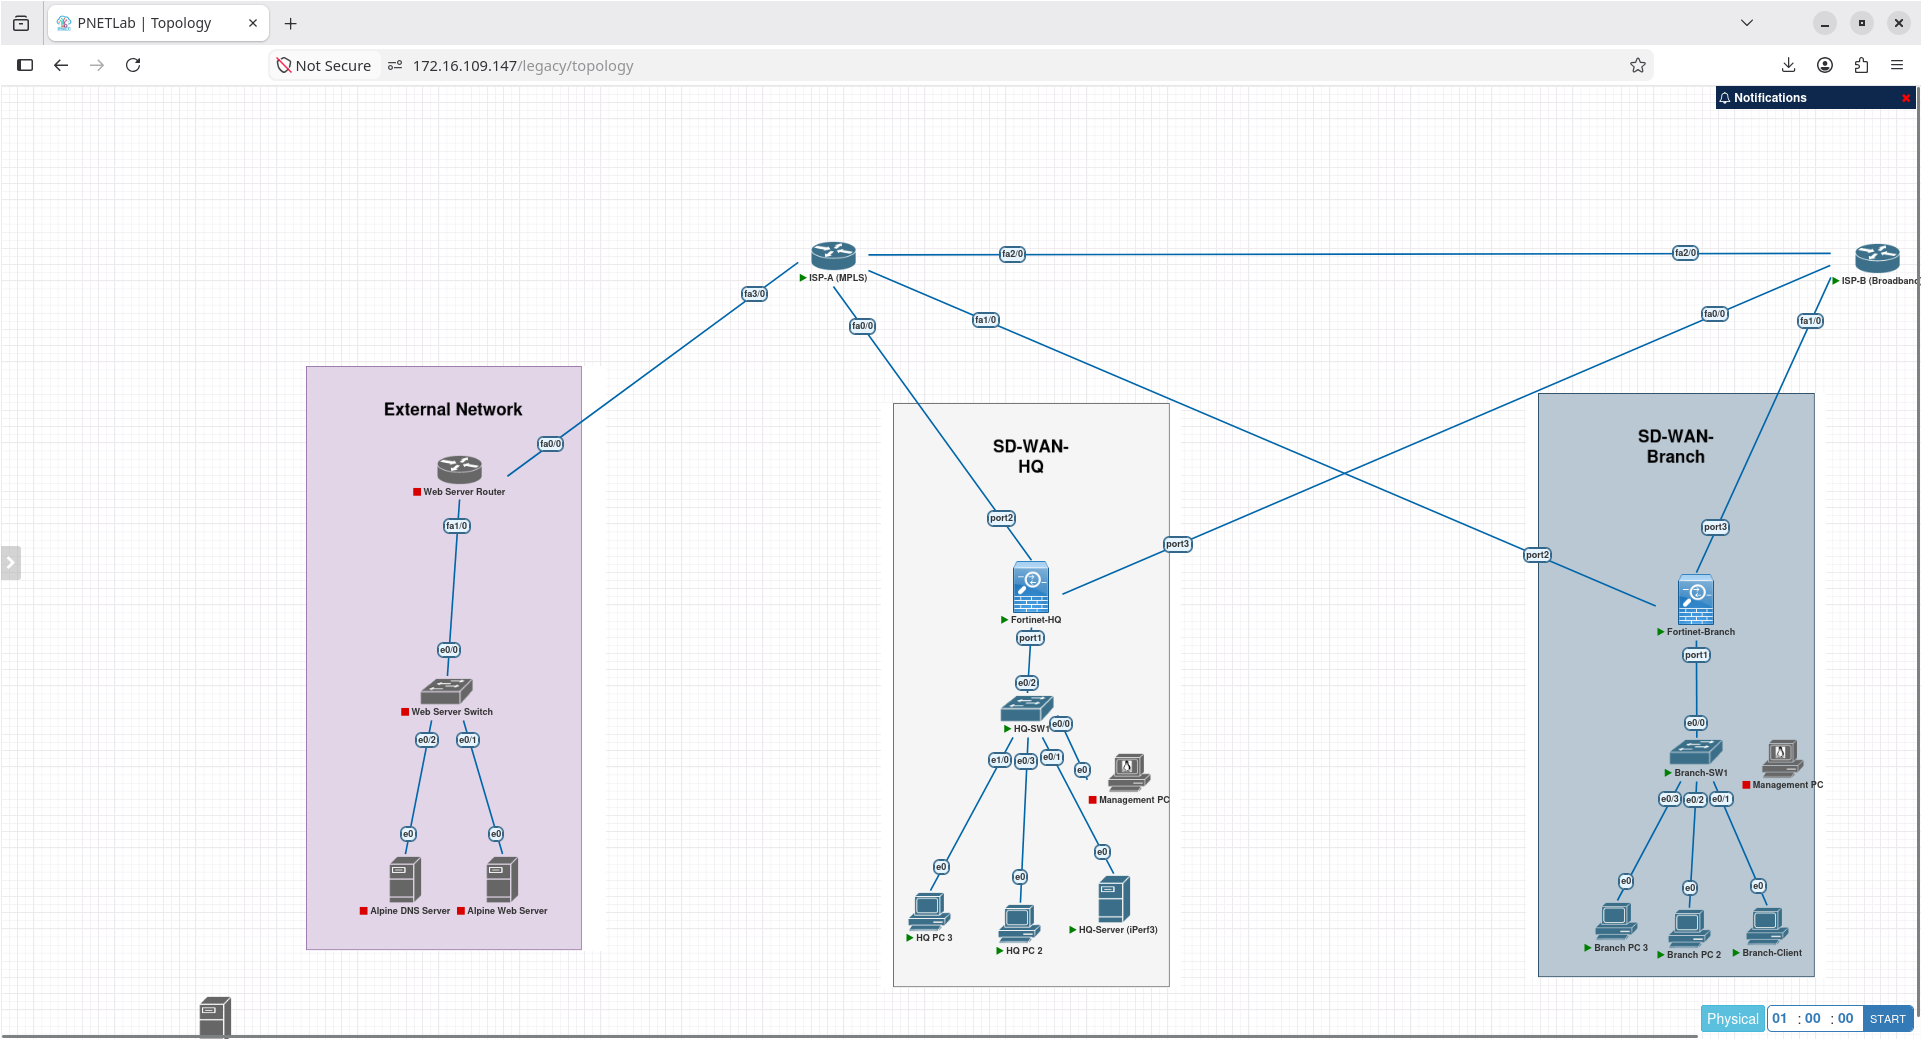
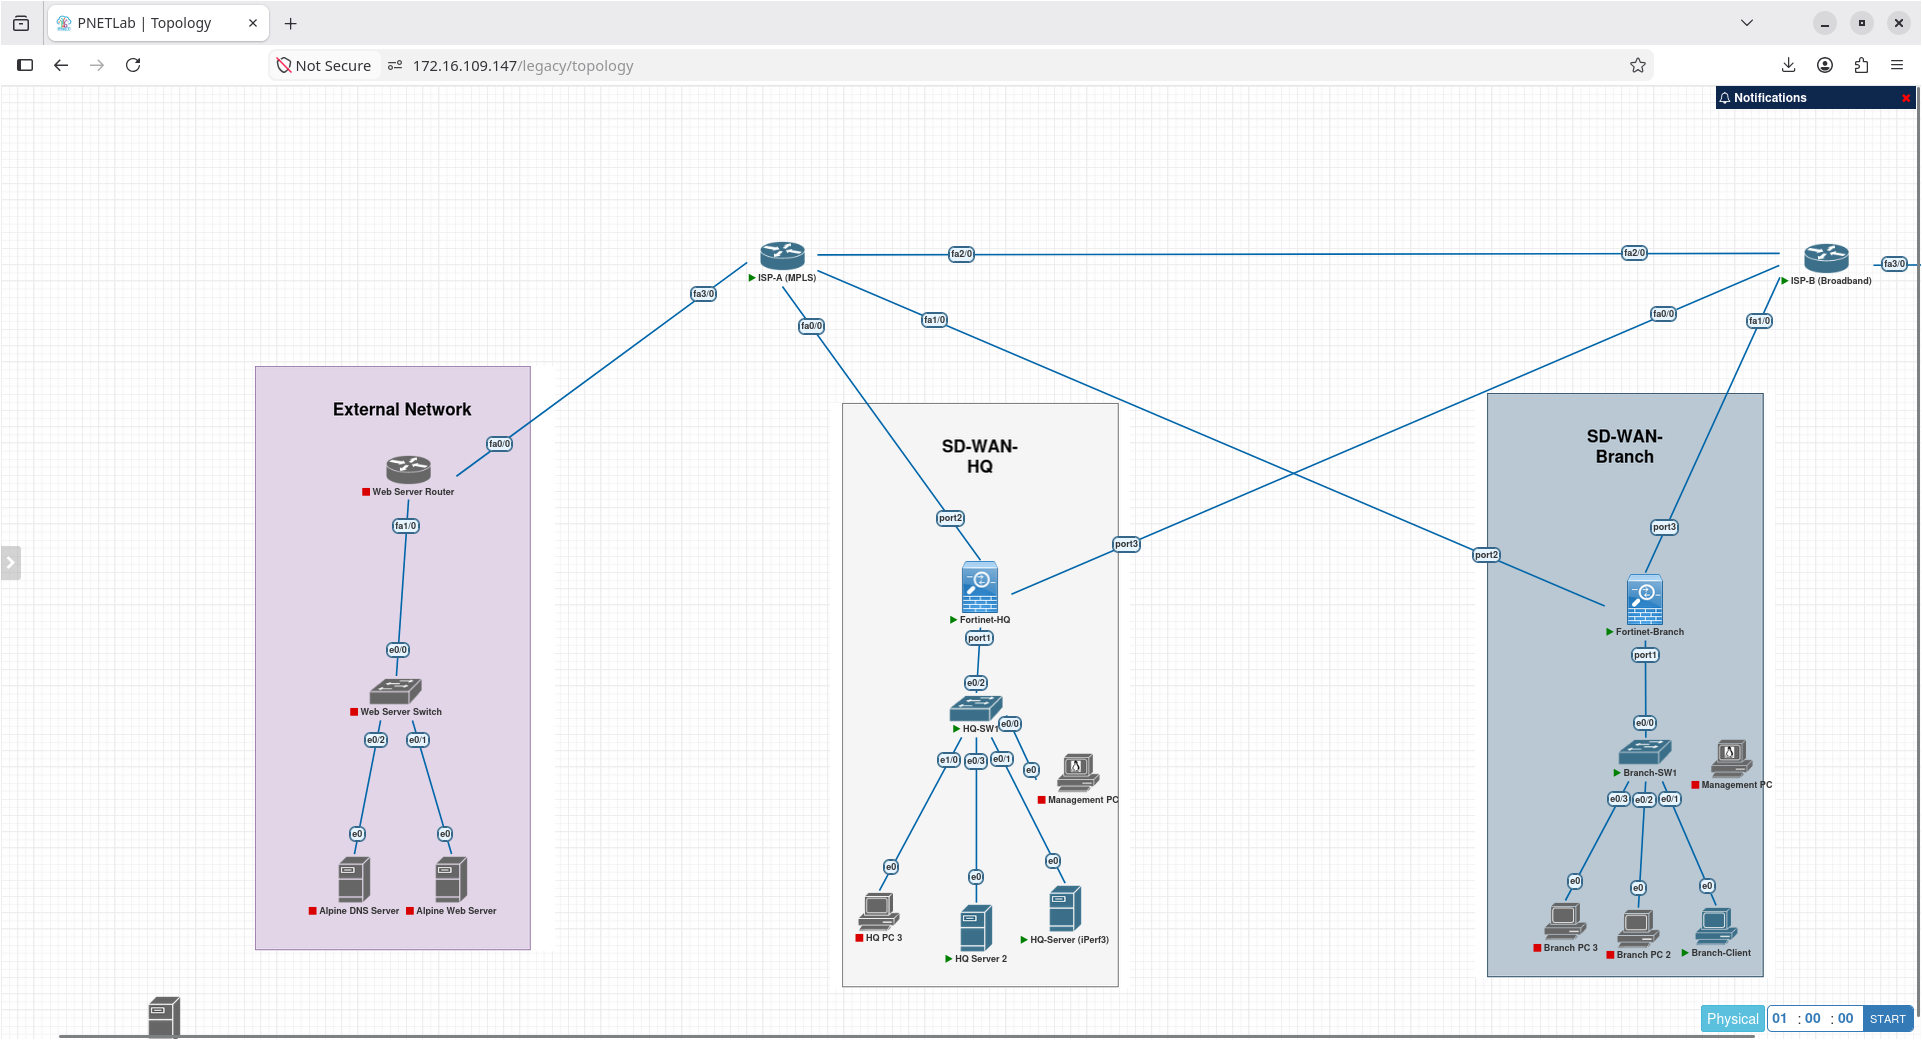
“README”

diff --git a/01-Fortinet-FortiGate/04-qos-traffic-shaping/README.md b/01-Fortinet-FortiGate/04-qos-traffic-shaping/README.md
@@ -25,7 +25,7 @@ https://github.com/user-attachments/assets/f4317ae5-a98f-454f-b6c7-e0343bcd3282
 | **Branch FortiGate** | `port1` (LAN) | `192.168.2.1` | `255.255.255.0` | Enforcement Point (Shaper & SD-WAN Gateway) |
 | **Branch FortiGate** | `port2` / `port3` | `10.0.1.6` / `10.0.2.6` | `255.255.255.252` | WAN Members in `virtual-wan-link` |
 | **Branch Client** | `eth0` | `192.168.2.10` | `255.255.255.0` | Traffic Generator initiating 10 Mbps test stream |
-| **HQ Server 2** | `eth0` | `192.168.1.15` | `255.255.255.0` | Target Server (`QoS-Test-Dest`) running iPerf3 (`:5201`) |
+| **HQ PC2** | `eth0` | `192.168.1.15` | `255.255.255.0` | Target Server (`QoS-Test-Dest`) running iPerf3 (`:5201`) |
 
 ---
 
